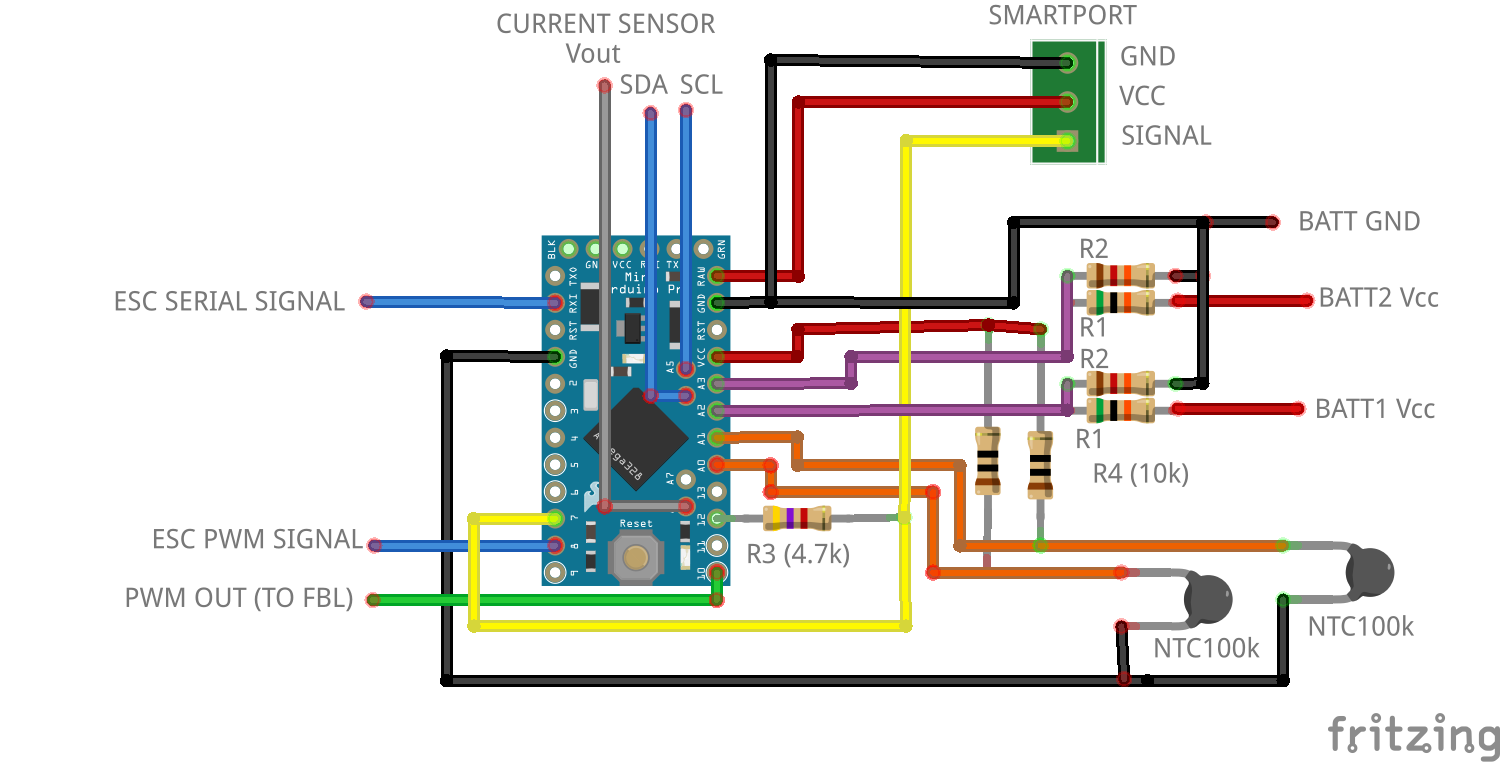
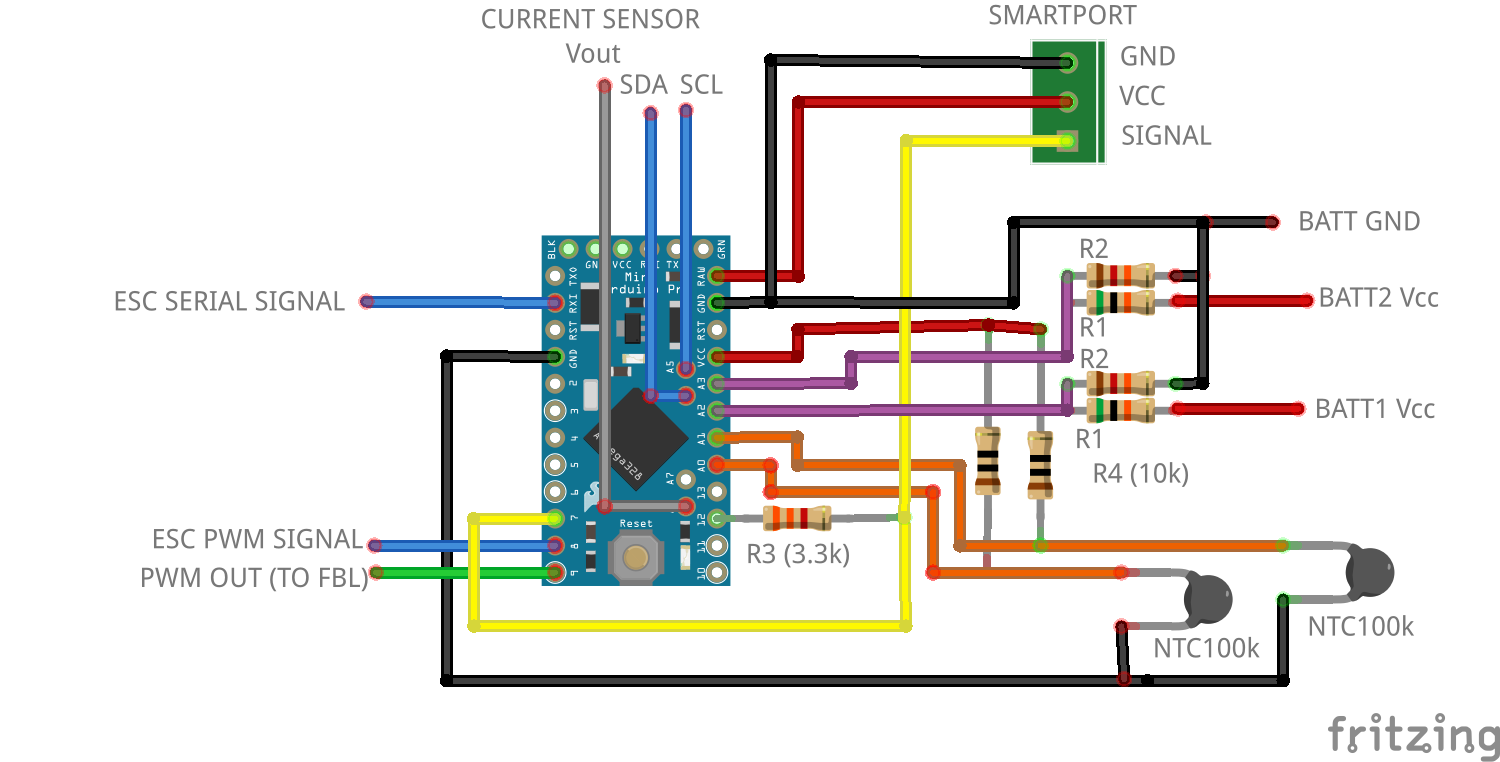
Cosmetic

diff --git a/msrc/msrc.h b/msrc/msrc.h
@@ -1,5 +1,5 @@
 /*
- * esc_smartport
+ * Multi Sensor RC - MSRC
  *
  * License https://www.gnu.org/licenses/gpl-3.0.en.html
  *
@@ -18,7 +18,7 @@
  * - SmartPort Gnd to Arduino Gnd
  * - Smartport Signal to Arduino PIN_SMARTPORT_RX (7)
  * - Smartport Signal to R3 (4.7k)
- * - R3 (4.7k) to Arduino PIN_SMARTPORT_TX (12)
+ * - R3 (3.3k) to Arduino PIN_SMARTPORT_TX (12)
  * - If using ESC serial: ESC serial signal to Arduino Rx
  * - If using ESC PWM: ESC PWM signal to Arduino PIN_PWM_ESC (8)
  * - If PWM output is required (for HobbyWing Flyfun V5): Flybarless PWM signal input to Arduino PIN_PWM_OUT (9)

diff --git a/README.md b/README.md
@@ -53,7 +53,7 @@ Usually the minimum circuit is the arduino connected to esc or rpm sensor and sm
  - If using ESC serial: ESC serial signal to Arduino Rx
  - If using ESC PWM: ESC PWM signal to Arduino PIN_PWM_ESC (8)
 
-<p align="center"><img src="./images/esc_smartport_min.png" width="600"><br>
+<p align="center"><img src="./images/msrc_min.png" width="600"><br>
   <i>Minimum circuit</i><br><br></p>
 
 ## Additional analog and I2C sensors
